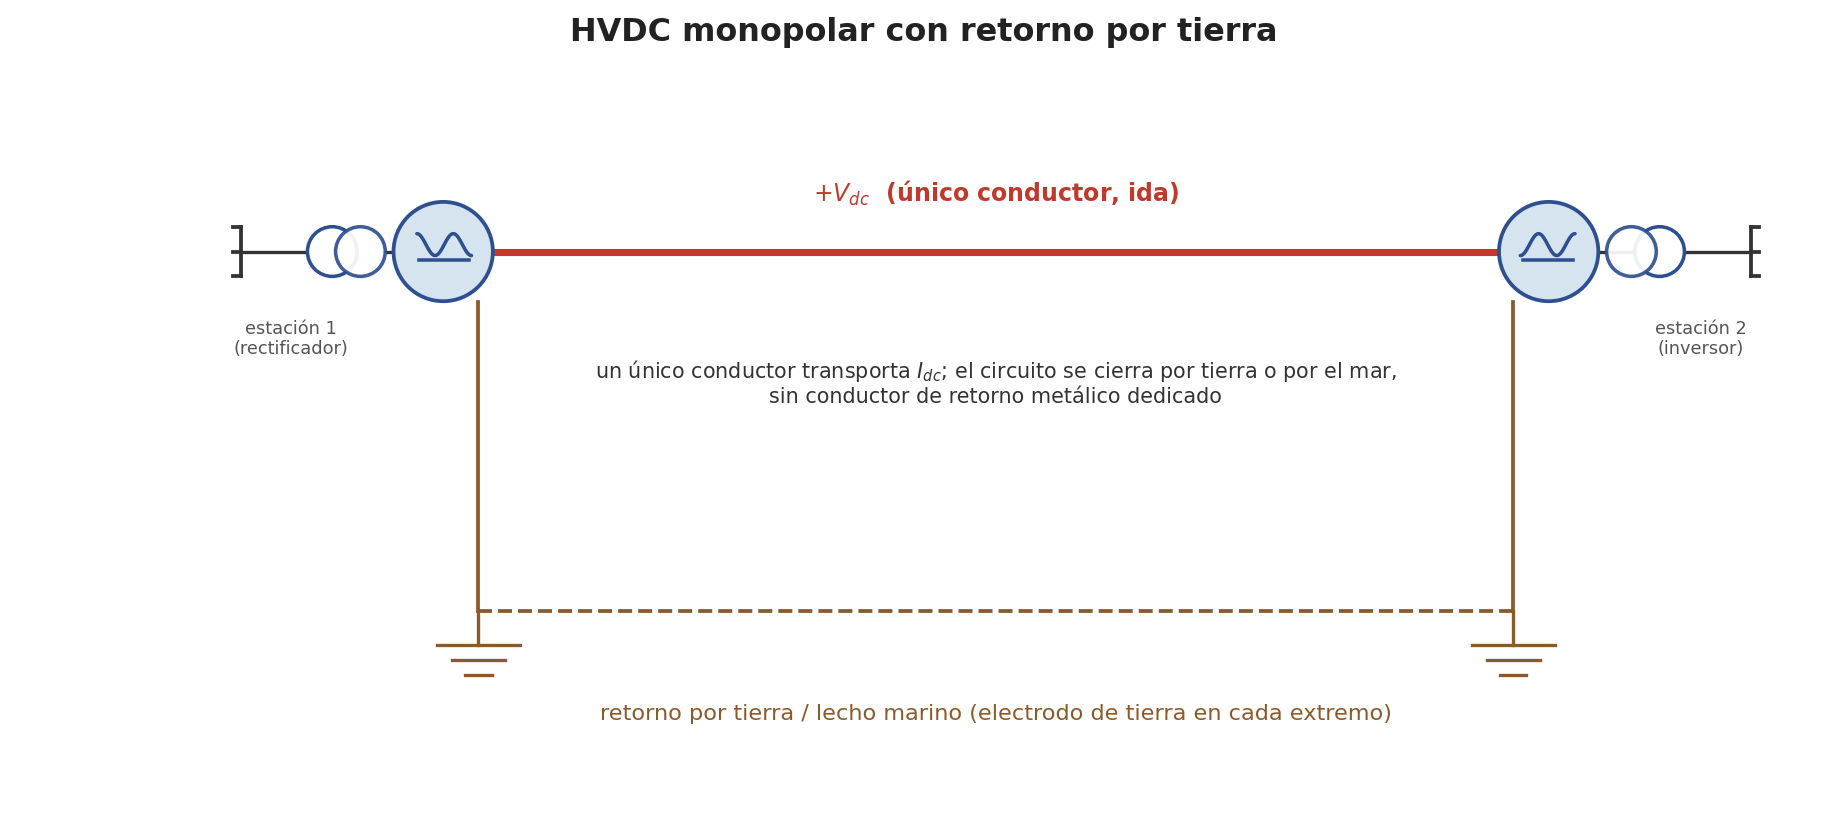
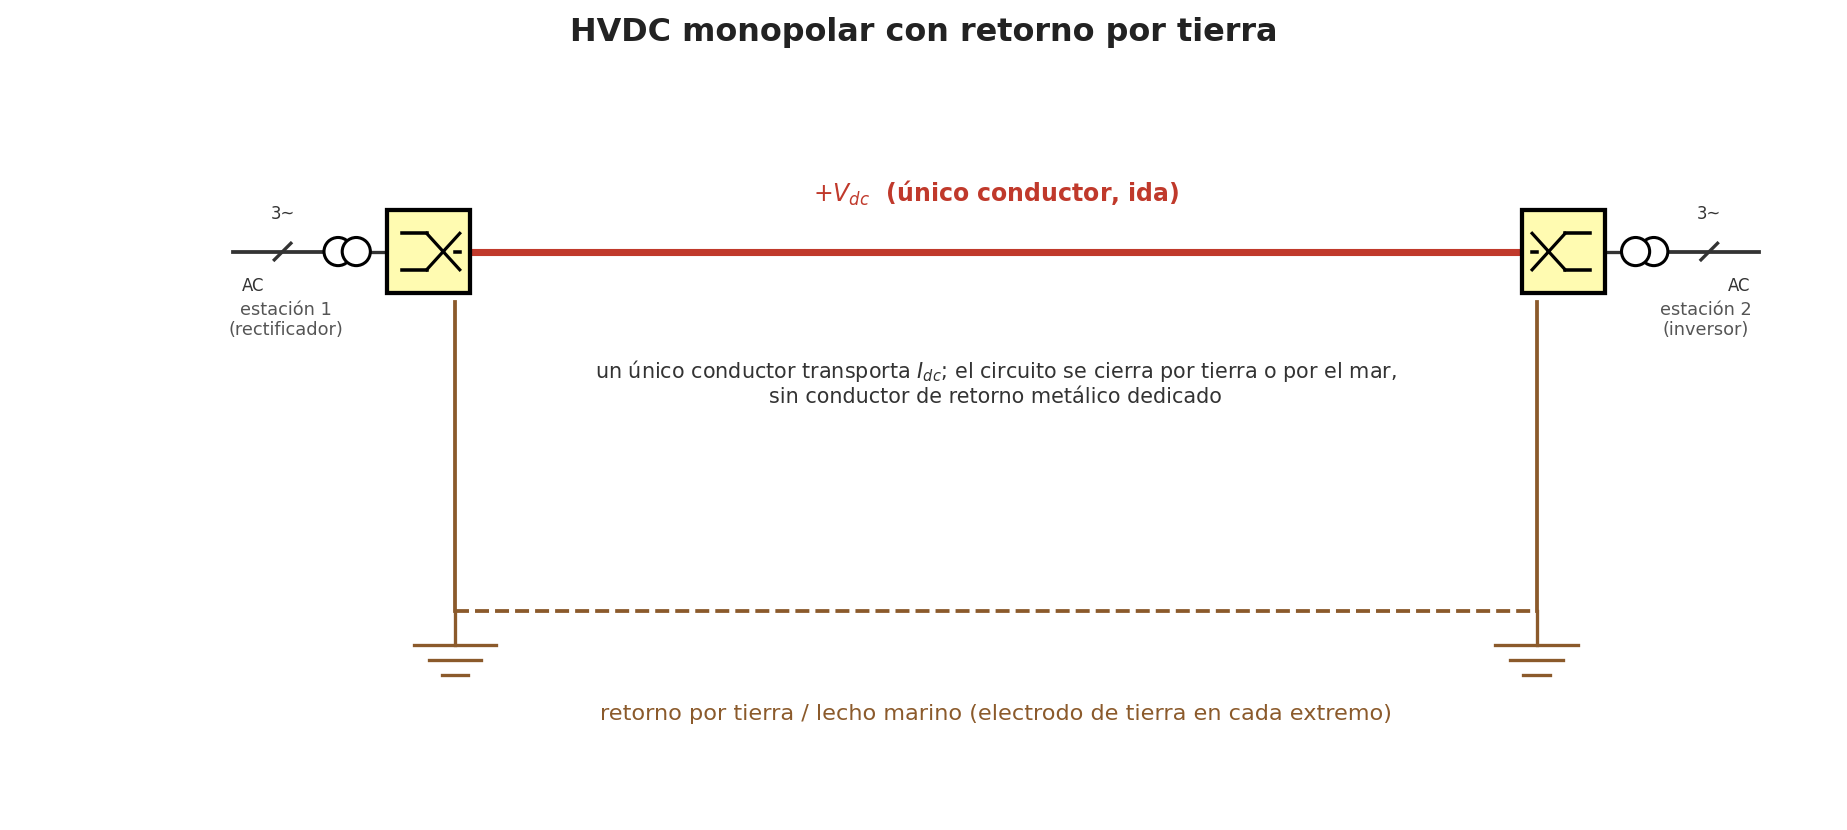
hvdc config: rehace el simbolo del terminal siguiendo como referencia visual el esquema clasico de Wikimedia Commons (Hvdc_bipolar_schematic.svg, Wdwd 2010, CC-BY/GFDL) consultado via su XML para extraer la geometria exacta, sin copiar el archivo. El convertidor pasa a ser el simbolo real de puente 

Changed region(s): [[0.8024, 0.241, 0.9567, 0.8133], [0.1234, 0.241, 0.2777, 0.4217], [0.216, 0.7229, 0.2777, 0.8133]]

diff --git a/00 - Repositorio/gen_figuras.py b/00 - Repositorio/gen_figuras.py
@@ -16232,48 +16232,60 @@ def _lcc_conmutacion_natural():
     _savefig(fig, 'lcc-conmutacion-natural', dpi=160)
 
 
-def _hvdc_terminal(ax, x, y, lbl='', flip=False, scale=1.0, col='#2e5090'):
-    """Dibuja un terminal VSC-HVDC con simbologia unifilar estandar: barras
-    trifasicas (3 rayas) -> transformador (dos circulos EN LA DIRECCION DEL
-    CABLE, uno tras otro, no apilados) -> convertidor (rombo/circulo partido
-    con simbolo IEC: ~ en el lado AC, — en el lado DC). flip=True lo dibuja
-    en espejo (terminal de la derecha, apuntando hacia la izquierda)."""
+def _hvdc_terminal(ax, x, y, lbl='', flip=False, scale=1.0, col='#000000'):
+    """Dibuja un terminal HVDC replicando fielmente el esquema unifilar clasico
+    de Wikimedia Commons (Hvdc_bipolar_schematic.svg, Wdwd 2010, CC-BY/GFDL):
+    linea AC con marca de conductor multiple (diagonal + '3~AC') -> transformador
+    (dos circulos pequenos en linea) -> convertidor (cuadrado amarillo palido con
+    simbolo de puente rectificador: dos lineas horizontales de entrada + rombo de
+    diagonales cruzadas). flip=True lo dibuja en espejo (terminal de la derecha)."""
     s = scale
     d = -1 if flip else 1
 
-    # ---- barras AC trifasicas: 3 rayas cortas perpendiculares al cable ----
+    # ---- linea AC con marca de "conductor multiple" (diagonal corta + texto 3~AC) ----
     xac = x
-    for dy in (-0.15, 0, 0.15):
-        ax.plot([x, x+d*0.05*s], [y+dy*s, y+dy*s], color='#333', lw=1.6)
-    ax.plot([x+d*0.05*s, x+d*0.05*s], [y-0.15*s, y+0.15*s], color='#333', lw=1.6)
-    ax.plot([x+d*0.05*s, x+d*0.45*s], [y, y], color='#333', lw=1.4)
+    x_xf0 = x + d*0.55*s
+    ax.plot([xac, x_xf0], [y, y], color='#333', lw=1.6)
+    xm = x + d*0.30*s
+    ax.plot([xm-0.05*s, xm+0.05*s], [y-0.05*s, y+0.05*s], color='#333', lw=1.4)
+    ax.text(xm, y+0.20*s, '3~', fontsize=7, ha='center', color='#333')
+    ax.text(x+d*0.12*s, y-0.24*s, 'AC', fontsize=7, ha='center', color='#333')
 
-    # ---- transformador: dos circulos entrelazados (simbolo IEC 60617) ----
-    r_xf = 0.15*s
-    c1x = x + d*0.60*s
-    c2x = c1x + d*0.17*s  # solape ~57% del radio: circulos claramente entrelazados
-    ax.add_patch(plt.Circle((c1x, y), r_xf, facecolor='white', edgecolor=col, lw=1.5, zorder=4))
-    ax.add_patch(plt.Circle((c2x, y), r_xf, facecolor='white', edgecolor=col, lw=1.5, zorder=5, alpha=0.92))
-    ax.plot([x+d*0.45*s, c1x-r_xf], [y, y], color='#333', lw=1.4)
+    # ---- transformador: dos circulos pequenos en linea (simbolo IEC clasico) ----
+    r_xf = 0.085*s
+    c1x = x_xf0 + d*r_xf
+    c2x = c1x + d*0.11*s
+    ax.add_patch(plt.Circle((c1x, y), r_xf, facecolor='white', edgecolor=col, lw=1.3, zorder=4))
+    ax.add_patch(plt.Circle((c2x, y), r_xf, facecolor='white', edgecolor=col, lw=1.3, zorder=5))
+    x_xf1 = c2x + d*r_xf
 
-    # ---- convertidor: circulo con simbolo IEC de convertidor AC/DC (~ | —) ----
-    r_c = 0.30*s
-    cvx = x + d*(0.60+0.19+0.14+0.34)*s
-    ax.plot([c2x+r_xf, cvx-r_c], [y, y], color='#333', lw=1.4)
-    ax.add_patch(plt.Circle((cvx, y), r_c, facecolor='#D6E4F0', edgecolor=col, lw=1.6, zorder=6))
-    # simbolo IEC estandar del convertidor: una sola senoide horizontal (~)
-    # cruzando el circulo, con una raya recta (—) debajo indicando el lado DC
-    ax_side = -d  # lado AC (donde arranca la onda, hacia la red)
-    tt = np.linspace(-1, 1, 80)
-    wx_c = cvx - ax_side*0.02*r_c
-    wxx = wx_c + tt*0.55*r_c
-    wyy = y + 0.22*r_c*np.sin(tt*np.pi*1.5)*ax_side*(-1)
-    ax.plot(wxx, wyy + 0.14*r_c, color=col, lw=1.5, zorder=7, solid_capstyle='round')
-    ax.plot([wx_c-0.5*r_c, wx_c+0.5*r_c], [y-0.16*r_c, y-0.16*r_c], color=col, lw=1.5, zorder=7)
+    # ---- convertidor: cuadrado amarillo palido con simbolo de puente rectificador ----
+    box = 0.50*s
+    x_box0 = x_xf1 + d*0.10*s
+    x_boxC = x_box0 + d*box/2
+    x_box1 = x_box0 + d*box
+    ax.plot([x_xf1, x_box0], [y, y], color='#333', lw=1.4)
+    corner = min(x_box0, x_box1)
+    import matplotlib.patches as mpatches
+    ax.add_patch(mpatches.Rectangle((corner, y-box/2), box, box,
+        facecolor='#FFFBB1', edgecolor=col, lw=1.8, zorder=4))
+    # simbolo de puente rectificador: dos lineas de entrada (arriba/abajo) que
+    # convergen en un rombo formado por 4 diagonales, con un vertice hacia el DC
+    ac_x = x_box0 + d*box*0.18   # lado por donde entra la AC dentro de la caja
+    dc_x = x_box1 - d*box*0.18   # lado por donde sale la DC dentro de la caja
+    ytop = y + box*0.22; ybot = y - box*0.22
+    ax.plot([ac_x, ac_x+d*box*0.30], [ytop, ytop], color='#000000', lw=1.5, zorder=6)
+    ax.plot([ac_x, ac_x+d*box*0.30], [ybot, ybot], color='#000000', lw=1.5, zorder=6)
+    diamond_cx = ac_x + d*box*0.30
+    ax.plot([diamond_cx, diamond_cx+d*box*0.20], [ytop, y], color='#000000', lw=1.35, zorder=6)
+    ax.plot([diamond_cx, diamond_cx+d*box*0.20], [ybot, y], color='#000000', lw=1.35, zorder=6)
+    ax.plot([diamond_cx+d*box*0.20, diamond_cx+d*box*0.40], [y, ytop], color='#000000', lw=1.35, zorder=6)
+    ax.plot([diamond_cx+d*box*0.20, diamond_cx+d*box*0.40], [y, ybot], color='#000000', lw=1.35, zorder=6)
+    ax.plot([diamond_cx+d*box*0.40, dc_x], [y, y], color='#000000', lw=1.5, zorder=6)
 
     if lbl:
-        ax.text(x+d*0.35*s, y-0.62*s, lbl, fontsize=7.5, color='#555', ha='center')
-    return cvx + d*r_c  # borde DC del terminal (donde empieza el conductor de linea)
+        ax.text(x+d*0.32*s, y-box*0.85-0.08*s, lbl, fontsize=7.5, color='#555', ha='center')
+    return x_box1  # borde DC del terminal (donde empieza el conductor de linea)
 
 
 def _hvdc_ground_symbol(ax, x, y, scale=1.0):
